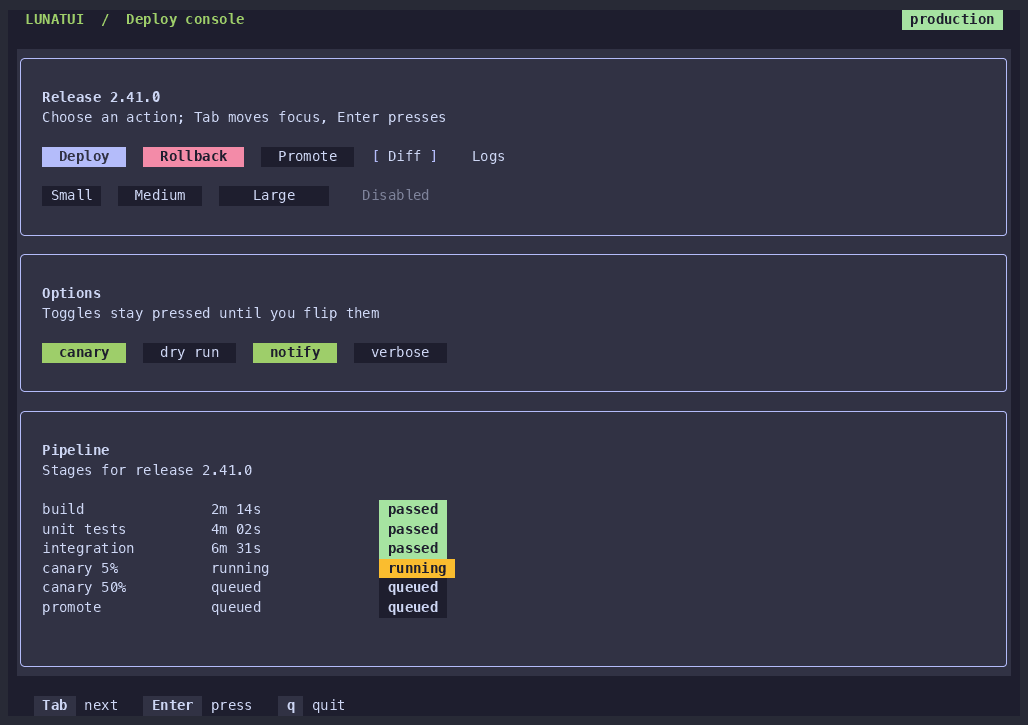
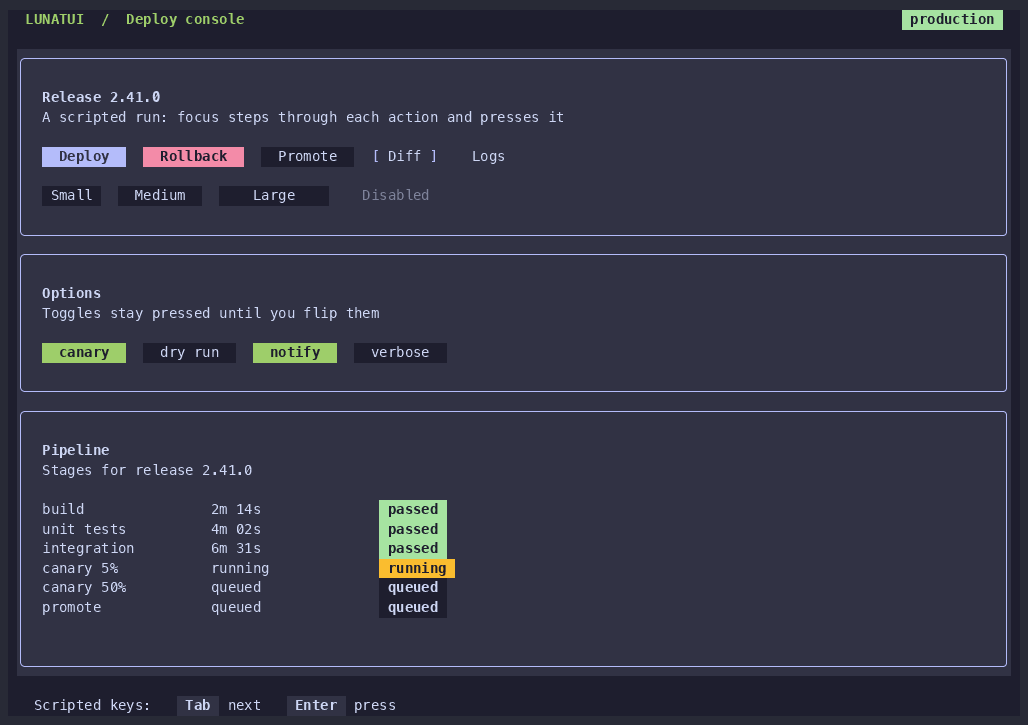
Draw the ui_button demo with widgets only and describe it as a scripted run

diff --git a/lunatui-button/examples/ui_button.rs b/lunatui-button/examples/ui_button.rs
@@ -15,7 +15,7 @@ use lunatui_core::{Attrs, ClusterTable, Grid, Rect, Size};
 use lunatui_term::{ColorMode, Encoder};
 use lunatui_theme::{Theme, Variant as ThemeVariant};
 use lunatui_ui_tokens::{Role, Tone, surface};
-use lunatui_widgets::{RenderCx, Widget};
+use lunatui_widgets::{Block, Paragraph, RenderCx, Widget};
 
 const ACTIONS: [(&str, Variant); 5] = [
     ("Deploy", Variant::Default),
@@ -132,10 +132,15 @@ struct Pipeline;
 
 impl Widget for Pipeline {
     fn render(&self, area: Rect, cx: &mut RenderCx<'_>) {
+        let text = surface(cx, Role::Card);
         for (row, (name, time, tone)) in STAGES.iter().enumerate() {
             let y = area.y + u16::try_from(row).unwrap_or(0);
-            cx.put_str(area.x, y, name, surface(cx, Role::Card));
-            cx.put_str(area.x + 20, y, time, surface(cx, Role::Card));
+            Paragraph::new(*name)
+                .style(text)
+                .render(Rect::new(area.x, y, 20, 1), cx);
+            Paragraph::new(*time)
+                .style(text)
+                .render(Rect::new(area.x + 20, y, 20, 1), cx);
             Badge::new(if *tone == Tone::Success {
                 "passed"
             } else {
@@ -155,16 +160,23 @@ struct Hints;
 
 impl Widget for Hints {
     fn render(&self, area: Rect, cx: &mut RenderCx<'_>) {
-        let hints: [(&[&str], &str); 3] =
-            [(&["Tab"], "next"), (&["Enter"], "press"), (&["q"], "quit")];
-        let mut x = area.x;
+        let hints: [(&[&str], &str); 2] = [(&["Tab"], "next"), (&["Enter"], "press")];
+        let page = surface(cx, Role::Background);
+        let lead = "Scripted keys:";
+        Paragraph::new(lead)
+            .style(page)
+            .render(Rect::new(area.x, area.y, 14, 1), cx);
+        let mut x = area.x + 17;
         for (keys, label) in hints {
             let chip = Kbd::new(keys);
             let w = chip.measure(Size::new(30, 1)).width;
             chip.render(Rect::new(x, area.y, w, 1), cx);
             let text = format!(" {label}");
-            cx.put_str(x + w, area.y, &text, surface(cx, Role::Background));
-            x += w + u16::try_from(text.chars().count()).unwrap_or(0) + 3;
+            let text_width = u16::try_from(text.chars().count()).unwrap_or(0);
+            Paragraph::new(text)
+                .style(page)
+                .render(Rect::new(x + w, area.y, text_width, 1), cx);
+            x += w + text_width + 3;
         }
     }
 
@@ -176,17 +188,19 @@ impl Widget for Hints {
 fn draw(grid: &mut Grid, clusters: &mut ClusterTable, theme: &Theme, area: Rect, tick: u32) {
     let mut cx = RenderCx::new(grid, clusters, theme);
     let backdrop = surface(&cx, Role::Background);
-    cx.fill(area, backdrop, ' ');
+    Block::new().style(backdrop).render(area, &mut cx);
     let title = backdrop
         .fg(cx.token(Role::Primary.token()))
         .with_attrs(Attrs::new().set_bold(true));
-    cx.put_str(2, 0, "LUNATUI  /  Deploy console", title);
+    Paragraph::new("LUNATUI  /  Deploy console")
+        .style(title)
+        .render(Rect::new(2, 0, 40, 1), &mut cx);
     let badge = Badge::new("production").tone(Tone::Success);
     badge.render(Rect::new(106, 0, 12, 1), &mut cx);
     let actions = Actions { tick };
     let flags = Flags { tick };
     Card::new("Release 2.41.0")
-        .description("Choose an action; Tab moves focus, Enter presses")
+        .description("A scripted run: focus steps through each action and presses it")
         .body(&actions)
         .render(Rect::new(1, 2, 118, 10), &mut cx);
     Card::new("Options")

diff --git a/README.md b/README.md
@@ -299,7 +299,7 @@ Screenshot: [docs/media/button.png](docs/media/button.png). Recorded with `scrip
 
 ### UI button
 
-The `lunatui-button` crate in a deploy console. Tab moves focus across the five variants (Deploy, Rollback, Promote, Diff, Logs) and then the four option toggles, and Enter presses the focused one. The size row shows Small, Medium and Large, and the Disabled button is muted text with no fill.
+The `lunatui-button` crate in a deploy console. The run is scripted, not interactive: focus steps across the five variants (Deploy, Rollback, Promote, Diff, Logs) and then the four option toggles, and the script presses each one as it goes. The size row shows Small, Medium and Large, and the Disabled button is muted text with no fill.
 
 <img src="docs/media/ui-button.gif" alt="lunatui-button: default, destructive, secondary, outline and ghost buttons, three sizes, a disabled button and option toggles in a deploy console in the dark theme" width="1028">
 

diff --git a/lunatui-button/examples/README.md b/lunatui-button/examples/README.md
@@ -1,5 +1,5 @@
 # `ui_button`
 
 Deploy console built from `lunatui-button`, `lunatui-badge` and `lunatui-card`. `ui_button` plays
-an animated run (`--width`, `--height`, `--frames`, `--fps`); `ui_button --snapshot` prints one
-frame as text.
+a scripted, non-interactive run: a timer steps focus and presses the buttons, and it reads no input
+(`--width`, `--height`, `--frames`, `--fps`). `ui_button --snapshot` prints one frame as text.
